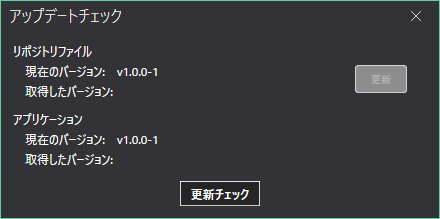
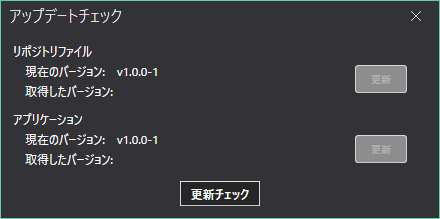
Update: docs

Changed region(s): [[0.7977, 0.6027, 0.9455, 0.7671]]

diff --git a/docs/htmls/how_to_use.html b/docs/htmls/how_to_use.html
@@ -157,7 +157,6 @@
     <p>AviUtlをインストール後に、追加でプラグインやスクリプトをインストール/アンインストールをしたい場合でも、個別に行うことが出来ます。<br>
     この操作は、プリインストールリポジトリでのみ有効です。</p>
     <ol>
-
       <h3 id="SingleInstall"><li>インストール</li></h3>
       <ol>
         <li>インストールしたい項目を右クリックする</li>
@@ -169,7 +168,22 @@
         <li>アンインストールしたい項目を右クリックする</li>
         <li>アンインストールを選択してクリックする</li>
       </ol>
-
     </ol>
+
+    <h2 id="ItemProperty">項目のプロパティ</h2>
+    <p>プリインストールリポジトリの項目のプロパティを表示します。</p>
+    <img src="../images/property.png"/>
+    <ul>
+      <li>概要: 項目がどういったものかが簡単に書いてあります</li>
+      <li>製作者: プラグインやスクリプトなどの製作者名です</li>
+      <li>バージョン: プラグインやスクリプトなどのバージョンです</li>
+      <li>ジャンル: どういったジャンルのものかが書かれています</li>
+      <li>種類: 本体、プラグイン、スクリプトの3種類のうちいずれかが表示されます</li>
+      <li>依存元: このプラグインやスクリプトを使用するにあたって、依存するものが書かれています</li>
+      <li>ダウンロードURL: ダウンロード先のURLが書かれています</li>
+      <li>ダウンロード状態: ファイルのダウンロード状態が書かれています</li>
+      <li>使い方: 使い方のサイトがある場合に、ここに使い方のURLが表示されます</li>
+    </ul>
+
   </body>
 </html>

diff --git a/docs/htmls/app_update.html b/docs/htmls/app_update.html
@@ -47,11 +47,24 @@
     <br>
 
     <h2>AviUtlAutoInstallerの更新</h2>
-    <ol>
-      <li>AviUtlAutoInstallerを終了する</li>
-      <li>最新のAviUtlAutoInstallerを<a href="https://github.com/minfia/AviUtlAutoInstaller/releases" target="_top">ダウンロード</a>する</a></li>
-      <li>ダウンロードページにあるアップデート手順に従ってAviUtlAutoInstallerを更新する</li>
-    </ol>
+    <h3>パターン1</h3>
+      <ol>
+        <li>AviUtlAutoInstallerを終了する</li>
+        <li>最新のAviUtlAutoInstallerを<a href="https://github.com/minfia/AviUtlAutoInstaller/releases" target="_top">ダウンロード</a>する</a></li>
+        <li>ダウンロードページにあるアップデート手順に従ってAviUtlAutoInstallerを更新する</li>
+      </ol>
+    <h3>パターン2</h3>
+      <ol>
+        <li>AviUtlを起動する</li>
+        <li>起動直後にアップデートがある旨が表示されたら、同意する</li>
+      </ol>
+    <h3>パターン3</h3>
+      <ol>
+        <li>AviUtlを起動する</li>
+        <li>ヘルプ -> 更新を確認をクリック</li>
+        <li>更新チェックをクリック</li>
+        <li>アプリケーション横の更新ボタンをクリックする</li>
+      </ol>
     <p>アップデート完了後、タイミングによってはプリインストールリポジトリが古い場合があるので、更新の確認を行うことをおすすめします。</p>
 
   </body>

diff --git a/docs/htmls/contents.html b/docs/htmls/contents.html
@@ -30,6 +30,7 @@
           <ul class="contents_title_child"><a href="how_to_use.html#SingleInstall" target="sc">インストール</a></ul>
           <ul class="contents_title_child"><a href="how_to_use.html#SingleUninstall" target="sc">アンインストール</a></ul>
         </ul>
+        <ul class="contents_title_child"><a href="how_to_use.html#ItemProperty" target="sc">項目のプロパティ</a></ul>
     </ul>
     <ul class="contents_title"><a href="app_update.html" target="sc">AviUtlAutoInstaller関連の更新</a></ul>
   </body>
